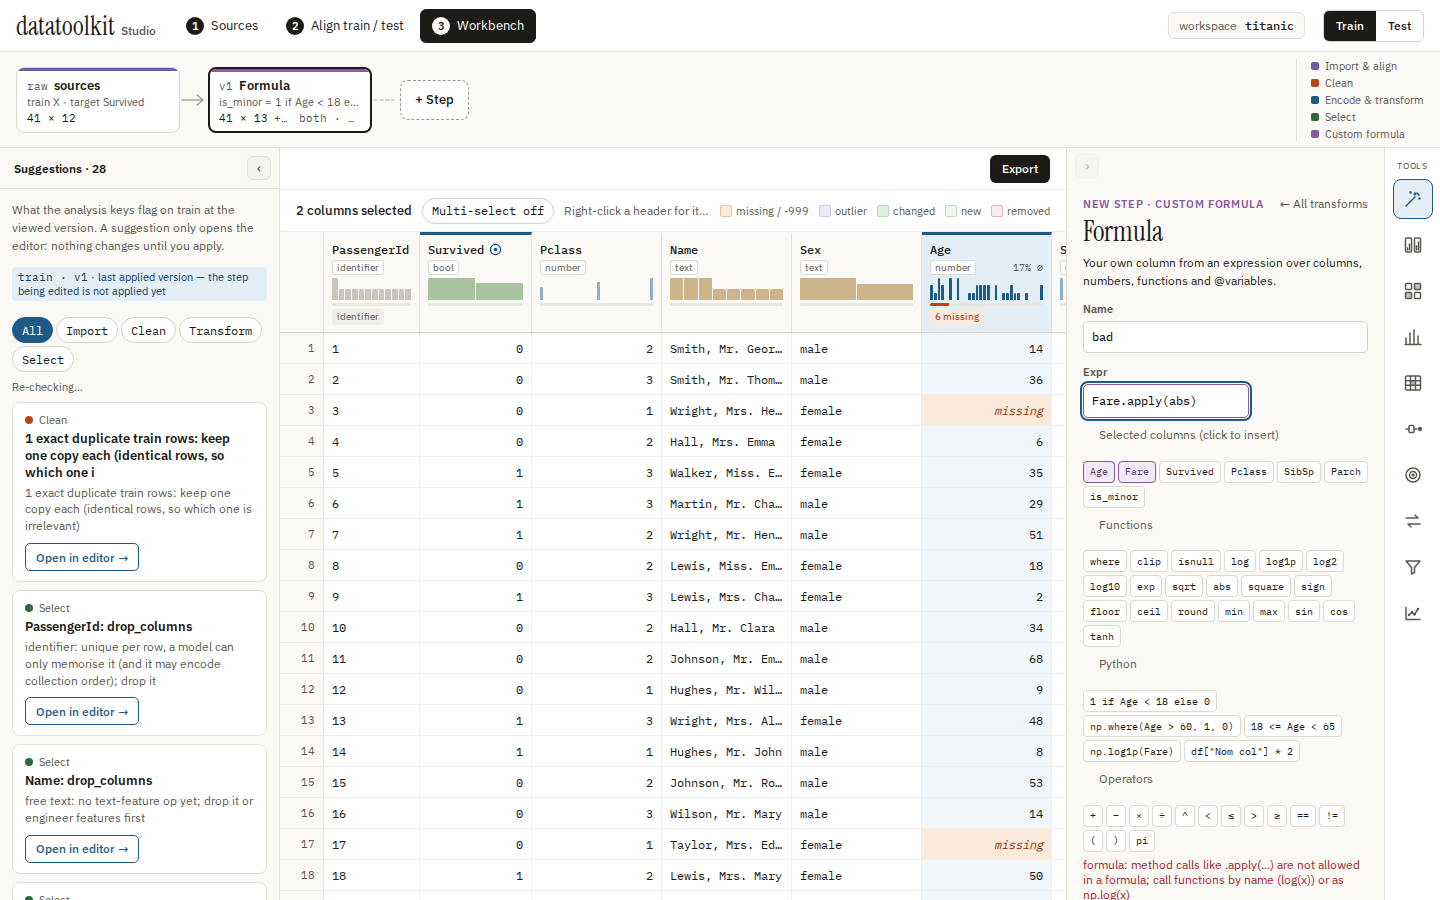
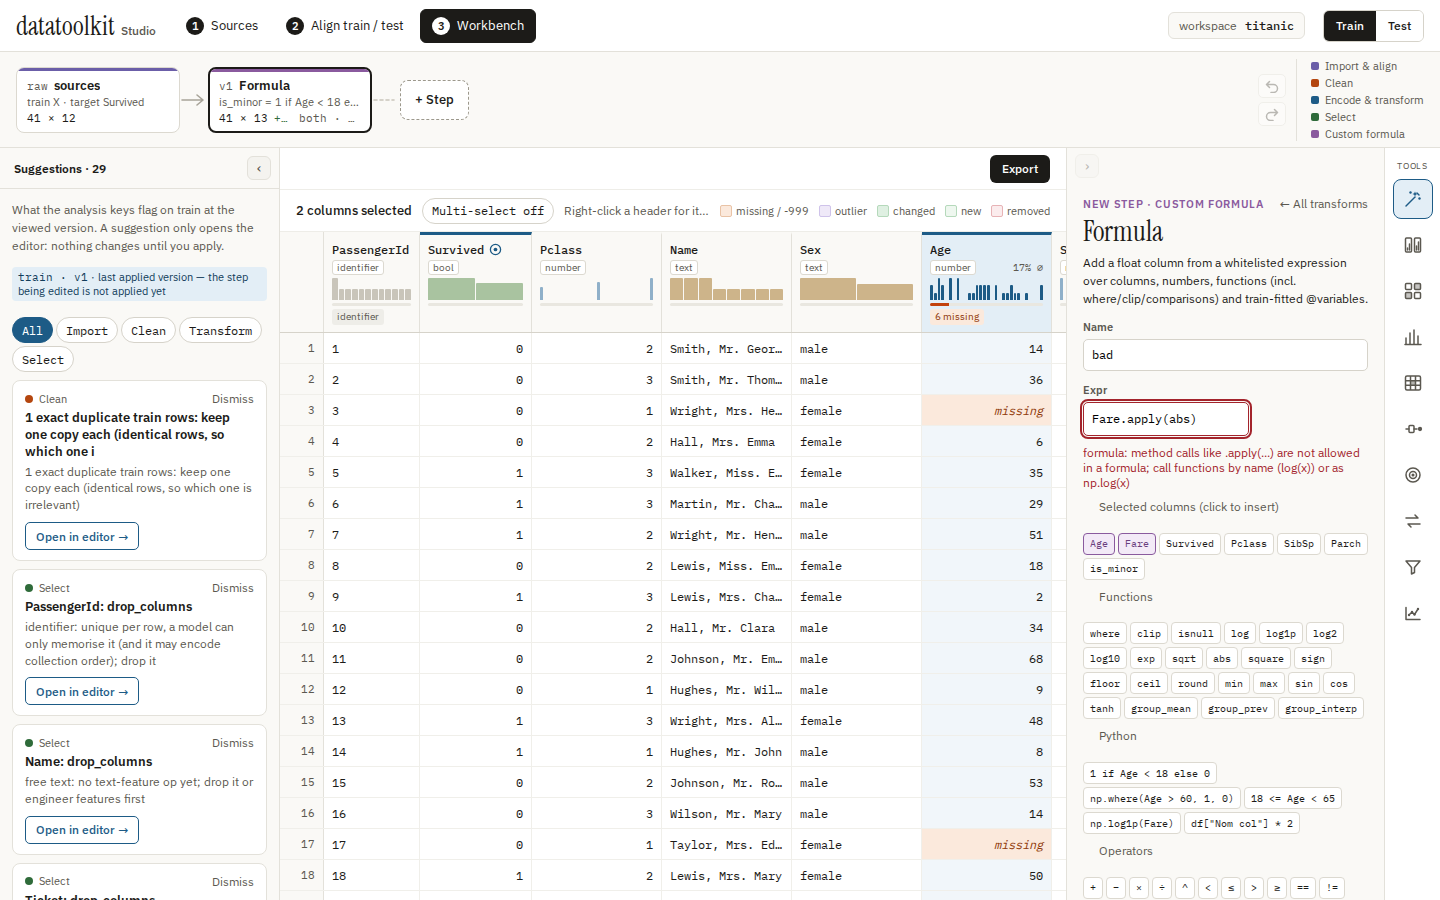
feat(studio): show the formula engine error right under the Expr field (#12) (#75)

Changed region(s): [[0.75, 0.28, 0.9688, 1.0], [0.0, 0.4044, 0.1875, 1.0], [0.125, 0.9644, 0.1875, 0.9956]]

diff --git a/src/bench/editor/StepEditor.tsx b/src/bench/editor/StepEditor.tsx
@@ -141,6 +141,17 @@ function kickerText(editIndex: number | undefined, stageName: string): string {
     : `Edit step v${editIndex + 1} · ${stageName}`;
 }
 
+/** True when the formula field itself shows the engine error (under Expr). */
+function errorShownInline(
+  previewError: string | null,
+  editorBlocker: string | null,
+  fields: EditorField[],
+  params: Record<string, unknown>,
+): boolean {
+  if (!previewError || editorBlocker) return false;
+  return fields.some((f) => f.widget === "formula" && fieldActive(f, params));
+}
+
 /** W2 — step editor (replaces inspector when open). */
 export function StepEditor() {
   const { editor, workspace } = useAppState();
@@ -185,6 +196,13 @@ export function StepEditor() {
     previewError ||
     (!paramsValid.ok ? paramsValid.missing : null) ||
     null;
+  // The formula field shows the engine error right under the Expr input.
+  const errorInline = errorShownInline(
+    previewError,
+    editorBlocker,
+    schemaFields,
+    editor.params,
+  );
   // Wait for schema + successful preview before Apply (slow Parkinson-sized
   // frames used to allow Apply during previewLoading — MAT-177).
   const canApply =
@@ -298,7 +316,7 @@ export function StepEditor() {
         </div>
       </div>
 
-      {(formError && !schemaError) || editorBlocker ? (
+      {((formError && !schemaError) || editorBlocker) && !errorInline ? (
         <div className="ed-error" role="alert" data-ed-disabled-reason="">
           <div>{editorBlocker || previewError || paramsValid.missing}</div>
           {needImputeCols.length > 0 ? (

diff --git a/src/bench/editor/FormulaField.tsx b/src/bench/editor/FormulaField.tsx
@@ -192,7 +192,10 @@ export function FormulaField({
           aria-autocomplete="list"
           aria-controls="formula-suggest"
           aria-expanded={suggestOpen}
-          className="ed-input formula"
+          className={
+            previewError ? "ed-input formula invalid" : "ed-input formula"
+          }
+          aria-invalid={previewError ? true : undefined}
           value={expr}
           placeholder={formulaPlaceholder(columns, variables)}
           onChange={(e) => {
@@ -236,6 +239,10 @@ export function FormulaField({
             ))}
           </ul>
         ) : null}
+      </div>
+
+      <div className={statusClass} data-formula-status="">
+        {status}
       </div>
 
       <span className="ed-help">
@@ -304,10 +311,6 @@ export function FormulaField({
         aria={(f) => f.help}
         onPick={(f) => insertAtCaret(f.insert)}
       />
-
-      <div className={statusClass} data-formula-status="">
-        {status}
-      </div>
     </div>
   );
 }

diff --git a/e2e/mat241-formula-python.spec.ts b/e2e/mat241-formula-python.spec.ts
@@ -82,6 +82,18 @@ test.describe("MAT-241 python-style formulas", () => {
       /method calls like \.apply\(\.\.\.\) are not allowed/,
       { timeout: 20_000 },
     );
+    // Issue #12: the error sits right under the Expr field (next sibling of
+    // its wrapper, close to it), and the field is outlined in red.
+    const adjacent = expr.locator(
+      "xpath=ancestor::div[contains(@class,'formula-input-wrap')]/following-sibling::*[1]",
+    );
+    await expect(adjacent).toHaveAttribute("data-formula-status", "");
+    await expect(adjacent).toHaveClass(/err/);
+    await expect(expr).toHaveAttribute("aria-invalid", "true");
+    const exprBox = (await expr.boundingBox())!;
+    const errBox = (await err.boundingBox())!;
+    expect(errBox.y).toBeGreaterThanOrEqual(exprBox.y + exprBox.height - 1);
+    expect(errBox.y - (exprBox.y + exprBox.height)).toBeLessThan(16);
     await captureFlowScreenshot(page, FLOW, "04-engine-error.png");
   });
 });

diff --git a/e2e/issue48-impute-group.spec.ts b/e2e/issue48-impute-group.spec.ts
@@ -41,6 +41,17 @@ test.describe("issue #48 impute group strategies", () => {
     await expect(field("by")).toHaveCount(0);
     await expect(field("fill_value")).toHaveCount(0);
 
+    // Issue #12: an engine error shows right under the Expr field.
+    const exprInput = editor.getByLabel("Expression");
+    await exprInput.fill("bmi.apply(abs)");
+    const exprErr = exprInput.locator(
+      "xpath=ancestor::div[contains(@class,'formula-input-wrap')]/following-sibling::*[1]",
+    );
+    await expect(exprErr).toHaveClass(/err/, { timeout: 20_000 });
+    await expect(exprErr).toContainText(/not allowed/);
+    await expect(exprInput).toHaveAttribute("aria-invalid", "true");
+    await exprInput.fill("");
+
     // group_interp → by (prefilled from the group_id column) + order + fallback.
     await editor
       .getByRole("button", { name: "group_interp", exact: true })

diff --git a/src/bench/Workbench.css b/src/bench/Workbench.css
@@ -1165,6 +1165,13 @@
   max-width: 100%;
 }
 
+.formula-input-wrap + .formula-status {
+  margin-top: 4px;
+}
+.ed-input.formula.invalid {
+  border-color: #a3242c;
+  outline-color: #a3242c;
+}
 .formula-status {
   font-size: 12px;
 }

diff --git a/README.md b/README.md
@@ -127,7 +127,9 @@ a param only while every listed sibling has one of those values (e.g. impute's
 empty `x-dtk-semantic` param (e.g. `impute.by`, `ffill.by` = `group_id`) is
 prefilled when the editor opens with the frame's column whose `workspace_rows`
 `semantic` matches, only when exactly one column does. The formula palette and
-autocomplete also offer `group_mean` / `group_prev` / `group_interp`.
+autocomplete also offer `group_mean` / `group_prev` / `group_interp`. An engine error on the formula
+(`formula` and `impute(strategy=formula)`) is shown right under the Expr field,
+which gets a red outline, not at the bottom of the panel.
 
 No router: the three screens (Sources, Alignment, Workbench) are reducer
 state (`SET_SCREEN`); nginx serves `index.html` for any path.
